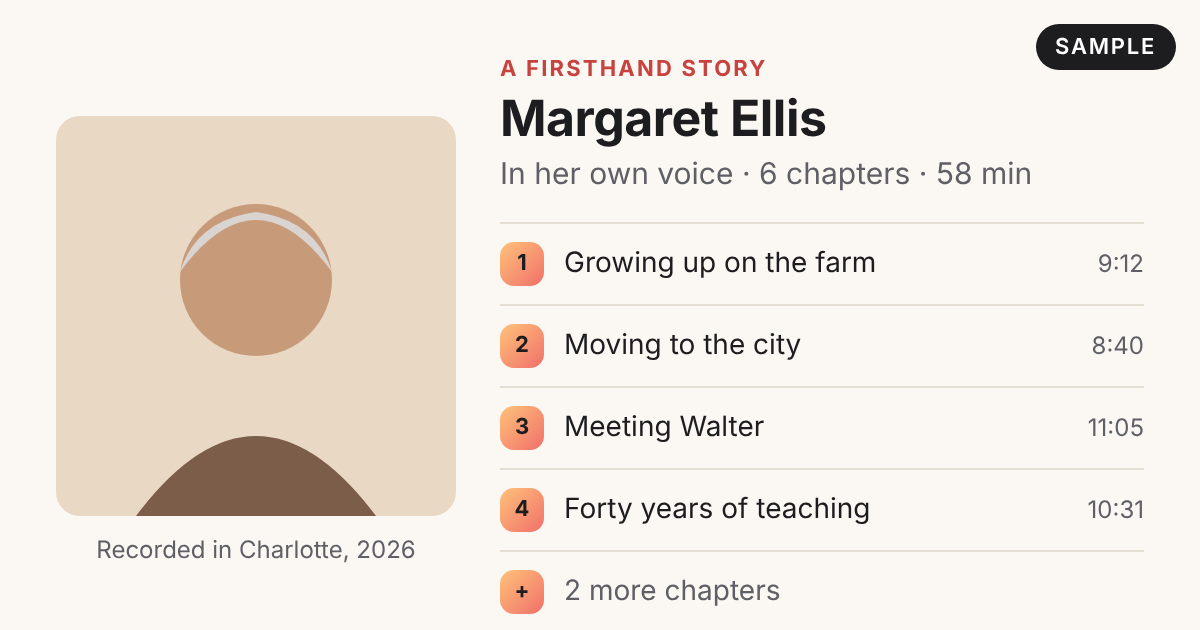
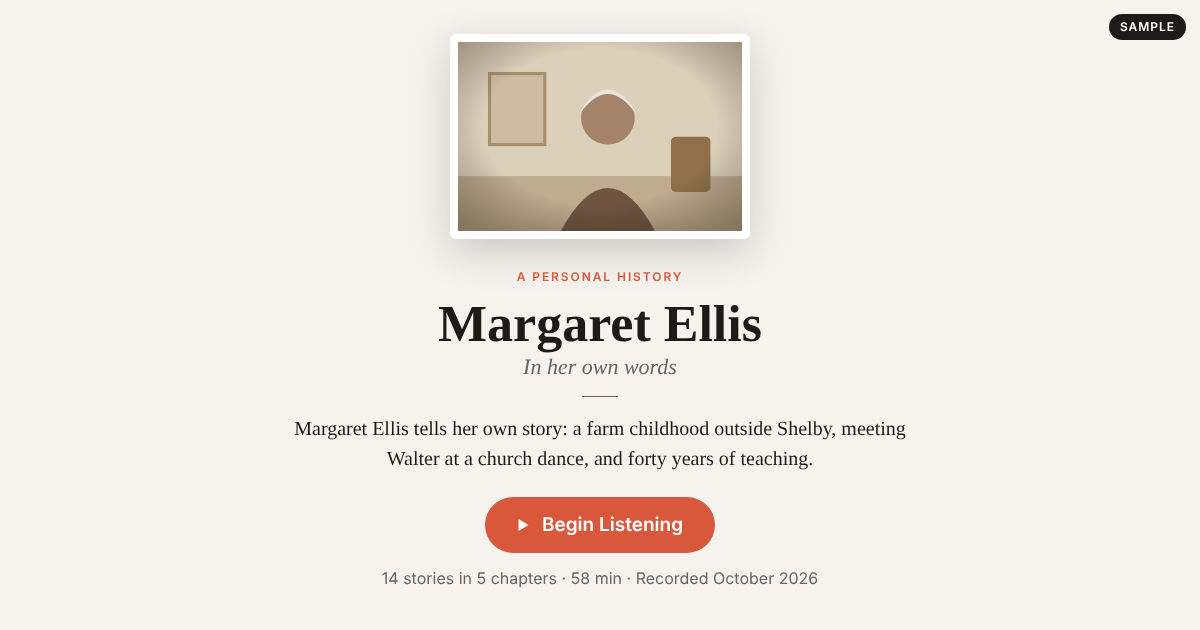
Stories: sample screenshots in the story site's own design
Redrawn to match the family story sites (opening page, listening view
with transcript and chapter list, phone), still a fictional storyteller
with original sepia drawings and a "Sample" label. Desktop layout
stacks the two wide screenshots beside the phone so they stay legible.

Claude-Session: https://claude.ai/code/session_01PqnXKuwHax7VXfKzYY3SZk

diff --git a/public/stories/index.html b/public/stories/index.html
@@ -40,10 +40,14 @@
          color: #1d1d1f; font-weight: 700; font-size: 1.25rem; }
   .card h3 { font-size: 1.05rem; margin: 0 0 6px; }
   .card p { margin: 0; color: var(--muted); font-size: 0.97rem; }
-  .shots { display: grid; gap: 24px; grid-template-columns: repeat(auto-fit, minmax(200px, 1fr)); align-items: start; }
+  .shots { display: grid; gap: 24px; align-items: start; }
+  @media (min-width: 640px) {
+    .shots { grid-template-columns: 1fr 200px; }
+    .shots .tall { grid-column: 2; grid-row: 1 / span 2; align-self: center; }
+  }
   figure { margin: 0; }
   figure img { display: block; width: 100%; height: auto; border-radius: 14px; border: 1px solid var(--line); background: var(--card); }
-  figure img.phone { max-width: 170px; margin: 0 auto; border: 0; background: none; border-radius: 0; }
+  figure img.phone { max-width: 200px; margin: 0 auto; border: 0; background: none; border-radius: 0; }
   figcaption { margin-top: 8px; font-size: 0.9rem; color: var(--muted); text-align: center; }
   .note { margin: 16px 0 0; font-size: 0.9rem; color: var(--muted); text-align: center; }
   .privacy ul { padding-left: 1.2em; margin: 0; }
@@ -97,17 +101,17 @@
     <div class="shots">
       <figure>
         <img src="/stories/images/opening.png" width="1200" height="630" loading="lazy" decoding="async"
-             alt="Sample story site opening page: a portrait drawing beside the name Margaret Ellis, a fictional storyteller, with a list of chapters such as Growing up on the farm and Meeting Walter">
+             alt="Sample story site opening page: a framed sepia drawing above the name Margaret Ellis, a fictional storyteller, the words In her own words, a short summary of her story, and a Begin Listening button">
         <figcaption>The opening page</figcaption>
       </figure>
       <figure>
-        <img src="/stories/images/story.png" width="1200" height="900" loading="lazy" decoding="async"
-             alt="Sample chapter page, Meeting Walter: an audio player, the transcript of the interviewer's question and Margaret's answer, and a drawing of a wedding day">
-        <figcaption>A chapter, with transcript and photos</figcaption>
+        <img src="/stories/images/story.png" width="1200" height="800" loading="lazy" decoding="async"
+             alt="Sample story site playing the story Meeting Walter: a sepia drawing of a wedding day, the transcript of the question and Margaret's answer with the current words highlighted, an audio player, and a list of chapters down the side">
+        <figcaption>Listening, with the transcript and photos</figcaption>
       </figure>
-      <figure>
-        <img class="phone" src="/stories/images/phone.png" width="600" height="1200" loading="lazy" decoding="async"
-             alt="Sample story site on an iPhone: the chapter Growing up on the farm playing, with a drawing of a farmhouse and a line of transcript">
+      <figure class="tall">
+        <img class="phone" src="/stories/images/phone.png" width="680" height="1400" loading="lazy" decoding="async"
+             alt="Sample story site on an iPhone: the story Growing Up on the Farm playing, with a sepia drawing of a farmhouse, an audio player, and the chapter list below">
         <figcaption>On any phone</figcaption>
       </figure>
     </div>
